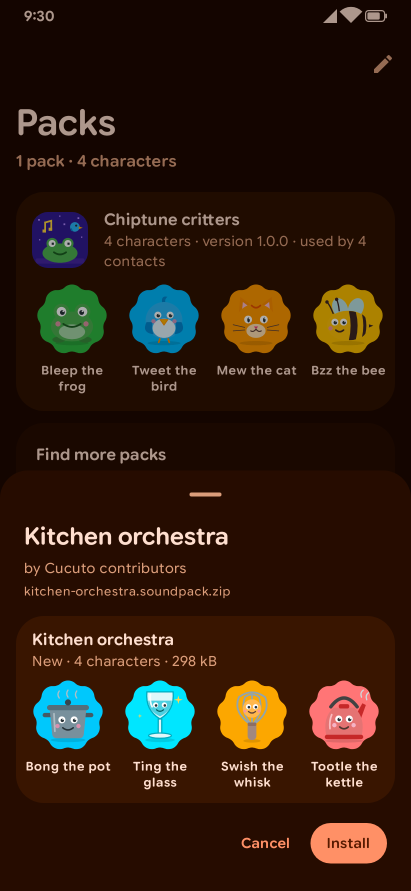
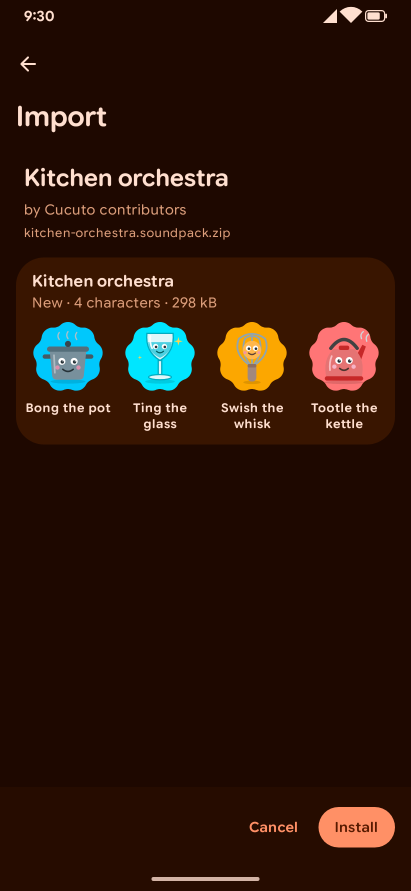
test(ui): goldens and accessibility checks for the new screens, ADR 0055

diff --git a/android/app/src/main/kotlin/app/mauri/cucuto/ui/discover/DiscoverModel.kt b/android/app/src/main/kotlin/app/mauri/cucuto/ui/discover/DiscoverModel.kt
@@ -22,7 +22,7 @@ import okhttp3.HttpUrl.Companion.toHttpUrlOrNull
 data class DiscoverUiState(
     /** One section per enabled repository; null while the saved repositories load. */
     val sections: List<RepositorySection>? = null,
-    /** Every saved repository, enabled or not, for the repositories sheet. */
+    /** Every saved repository, enabled or not, for the Repositories screen. */
     val repositories: List<SavedRepository> = emptyList(),
     val query: String = "",
     val tag: String? = null,
@@ -138,8 +138,8 @@ sealed interface DiscoverMessage {
 enum class AuthKind { NONE, BASIC, BEARER }
 
 /**
- * The "add a repository" sheet, or the sign-in sheet of a saved repository ([repositoryId] set, URL fixed). The URL is
- * parsed as the user types so the sheet can show the host and the unknown-source warning before anything is fetched.
+ * The "add a repository" form, or the sign-in form of a saved repository ([repositoryId] set, URL fixed). The URL is
+ * parsed as the user types so the form can show the host and the unknown-source warning before anything is fetched.
  * Secrets live only here, in memory, and [toString] never shows them.
  */
 data class RepositoryForm(
@@ -158,10 +158,10 @@ data class RepositoryForm(
 
     val link: RepositoryLink? get() = (parsed as? LinkResult.Ok)?.link
 
-    /** The host the link points at, shown in the sheet. */
+    /** The host the link points at, shown in the form. */
     val host: String? get() = link?.url?.host
 
-    /** False for anything but the project website: the sheet shows the unknown-source warning. */
+    /** False for anything but the project website: the form shows the unknown-source warning. */
     val trusted: Boolean get() = host == DEFAULT_HOST
 
     /** The credentials as typed. Throws [IllegalArgumentException] when they are not valid header values. */

diff --git a/android/app/src/main/kotlin/app/mauri/cucuto/home/HomeModel.kt b/android/app/src/main/kotlin/app/mauri/cucuto/home/HomeModel.kt
@@ -39,7 +39,7 @@ data class PackFilterOption(
  * @property recent The "recent senders" strip: chats without a voice that messaged in the last
  *   [HomeRules.RECENT_WINDOW_MS], newest first. Hidden while searching or filtering.
  * @property chats The chat list after search and pack filter.
- * @property unassigned Every chat without a voice, newest first (the "Assign a voice" sheet).
+ * @property unassigned Every chat without a voice, newest first (the "Assign a voice" screen).
  * @property voiced Every chat with a voice (installed or not), newest first, ignoring search and filter.
  * @property totalChats Chats before search and filter (tells "no chats yet" from "no matches").
  */

diff --git a/android/app/src/main/kotlin/app/mauri/cucuto/ui/discover/PackDownloader.kt b/android/app/src/main/kotlin/app/mauri/cucuto/ui/discover/PackDownloader.kt
@@ -21,7 +21,7 @@ import java.util.concurrent.atomic.AtomicBoolean
 /**
  * Downloads a repository entry or a direct pack link (size and SHA-256 checked by [RepositoryClient]) to a temporary
  * file in [workDir], then hands it to the same import pipeline as local files ([PackCatalog.prepare], ADR 0011): the
- * user reviews and confirms in the import sheet as usual. The temporary file is deleted once the importer has its own
+ * user reviews and confirms in the import review as usual. The temporary file is deleted once the importer has its own
  * copy, or when the download fails or is cancelled.
  */
 class PackDownloader(

diff --git a/android/app/src/main/kotlin/app/mauri/cucuto/ui/discover/DemoPacks.kt b/android/app/src/main/kotlin/app/mauri/cucuto/ui/discover/DemoPacks.kt
@@ -38,7 +38,7 @@ sealed interface DemoPacksUi {
     /** Fetching the default repository's index to find the bundle. */
     data object Finding : DemoPacksUi
 
-    /** The import sheet has the bundle (download, review, install); a problem there offers to pick the file. */
+    /** The import review has the bundle (download, review, install); a problem there offers to pick the file. */
     data object Importing : DemoPacksUi
 
     /** The bundle could not be found: say why, offer to try again or to pick the file from Downloads. */

diff --git a/android/app/src/main/kotlin/app/mauri/cucuto/ui/discover/IncomingRepoLinks.kt b/android/app/src/main/kotlin/app/mauri/cucuto/ui/discover/IncomingRepoLinks.kt
@@ -11,7 +11,7 @@ import javax.inject.Singleton
 
 /**
  * "Add to app" links (`cucuto://repo/add?url=…`) from websites and QR codes. The activity [offer]s each link
- * ([repoLinkOf]); Discover [take]s it and opens the add sheet with the host and a warning. Nothing is fetched until
+ * ([repoLinkOf]); Discover [take]s it and opens the add form with the host and a warning. Nothing is fetched until
  * the user confirms: a link only fills in the form.
  */
 @Singleton

diff --git a/android/app/src/main/kotlin/app/mauri/cucuto/ui/discover/DiscoverViewModel.kt b/android/app/src/main/kotlin/app/mauri/cucuto/ui/discover/DiscoverViewModel.kt
@@ -416,7 +416,7 @@ class DiscoverViewModel
             selected: Boolean,
         ) = imports.setSelected(packId, selected)
 
-        /** Installs what the review shows (the sheet's install button). */
+        /** Installs what the review shows (the review's install button). */
         fun confirmInstall() =
             imports.install {
                 message.value = DiscoverMessage.Installed(it)

diff --git a/android/app/src/main/kotlin/app/mauri/cucuto/ui/creator/CreatorViewModel.kt b/android/app/src/main/kotlin/app/mauri/cucuto/ui/creator/CreatorViewModel.kt
@@ -554,7 +554,7 @@ class CreatorViewModel
 
         // region Finish
 
-        /** Builds the pack and checks it with every rule: the "Check and finish" sheet. */
+        /** Builds the pack and checks it with every rule: the "Check and finish" screen. */
         fun check() {
             val start = state.value.draft ?: return
             setState { copy(finish = FinishUi.Checking) }

diff --git a/android/app/src/main/kotlin/app/mauri/cucuto/navigation/CucutoApp.kt b/android/app/src/main/kotlin/app/mauri/cucuto/navigation/CucutoApp.kt
@@ -77,7 +77,7 @@ fun CucutoApp(
 
 /**
  * The shell with the real screens. A pack handed over by another app opens the Packs tab, which imports it; an "Add
- * to app" repository link opens the Discover tab, which shows the add sheet (#36).
+ * to app" repository link opens the Discover tab, which opens the add form (#36).
  */
 @Composable
 fun CucutoShell(

diff --git a/android/app/src/main/kotlin/app/mauri/cucuto/ui/creator/CreatorState.kt b/android/app/src/main/kotlin/app/mauri/cucuto/ui/creator/CreatorState.kt
@@ -130,7 +130,7 @@ data class Busy(
     enum class Kind { OPENING_PICTURE, SAVING_PICTURE, OPENING_AUDIO, COPYING_PACK }
 }
 
-/** The "Check and finish" sheet. */
+/** The "Check and finish" screen. */
 sealed interface FinishUi {
     data object Checking : FinishUi
 

diff --git a/docs/decisions/0055-screens-over-dialogs.md b/docs/decisions/0055-screens-over-dialogs.md
@@ -1,0 +1,74 @@
+# 0055. Screens over dialogs: flows and long content are destinations
+
+- Status: accepted (defaults the owner may override are in the `question` issue linked from #218)
+- Date: 2026-10-24
+- Issue: #218 (the owner's answer on #166, item 9)
+
+## Context
+
+The owner on #166: "i preffer a screen unless the content is very minimal and temporary." The brief now says so
+("Screens over dialogs"). Nine places still showed a flow or a body of content in a dialog or bottom sheet: the
+restore flow (a full-screen dialog over Settings), the manual backup options, the licenses, the import review, the
+pack detail, the repository form, the saved repositories, the creator's "Check and finish" and Home's "Assign a voice"
+list. Confirmations, short choices and blocking progress cards stay dialogs.
+
+The shell (ADR 0027) gives each tab a Navigation 3 back stack, and every entry its own `ViewModelStore`. Most of these
+flows keep their state in the view model of the screen below them (an import lives in `PacksViewModel` or
+`DiscoverViewModel`, the repository form in `DiscoverViewModel`, the check in `CreatorViewModel`), and those view
+models carry the flows' tests.
+
+Read: Navigation 3 ([saving and managing state](https://developer.android.com/guide/navigation/navigation-3/save-state),
+view models scoped to entries, `NavEntryDecorator`), the lifecycle `ViewModelStoreProvider` and
+`rememberViewModelStoreOwner` APIs (lifecycle 2.11), Material 3 top app bars, and `NavigationBackHandler`
+(`androidx.navigationevent`).
+
+## Decision
+
+**Each conversion is a destination** (`CucutoDestination`): `Restore(backupUri)`, `BackupExport`, `Licenses`,
+`ImportReview(from)`, `PackDetail(packId)`, `RepositoryForm`, `Repositories`, `CreatorFinish(sourcePackId)` and
+`AssignVoice`, pushed on the tab that opens it. They use `PushedScreen`: the shared `CucutoTopBar` (medium flexible
+bar with a back arrow) in a `Scaffold`, and `BottomActionBar` for a step's buttons. They slide like every pushed
+screen, predictive back included, and the navigation bar stays (only the setup guide is immersive).
+
+**Child screens share their parent's view models.** The shell replaces `rememberViewModelStoreNavEntryDecorator` with
+its own decorator (`EntryViewModels.kt`): one store per entry, cleared when the entry is popped, as before. An entry
+declared with `childOf(parent)` metadata also gets the parent entry's store as `LocalParentViewModelStoreOwner`
+(looked up by the parent's tab-prefixed content key, so it exists even when the parent was never composed in this
+process), and reads it with `parentViewModel()`. The import review, pack detail, repository screens, backup options,
+"Check and finish" and "Assign a voice" are children; the flows keep one state and their existing tests.
+`OnEntryPopped` runs a callback from a tiny view model in the child's own store when that store is cleared, so a
+child closes its part of the parent's state (an open import, the form, the check) only when it really leaves its
+stack, not on a rotation or a tab switch.
+
+**Opening a child is an event kept as state.** `ImportController.showReview` and `DiscoverViewModel.showForm` turn true
+when an import or the form starts (a tap, "Open with", Home's demo packs, an "Add to app" link) and false once the
+screen is open. The parent pushes the child when it sees true, so a child left with back is never pushed again while
+its state is still being closed. A child leaves by itself when its state is over (installed, saved) or missing.
+
+**State across process death.** The back stacks survive (ADR 0027). Restore keeps the backup's URI in its key and
+opens it again (the picker's read grant lasts until reboot); an encrypted backup asks for its password again, and the
+packs and contacts already restored stay restored, so going through it again is harmless. Pack detail, saved
+repositories, licenses, the backup options' switches and the assign list come back as they were. Passwords never go
+into saved state. An import in progress (its temporary files and the file's grant), the repository form and the
+check's result live only in memory, as they did in the sheets: after process death those screens close and the
+parent shows, with nothing lost that was saved (the creator's draft is saved after every change).
+
+**Details.** Restore's "Choose another file" replaces the Restore screen with one for the new file
+(`AppNavigator.replace`), and its summary's links to the setup guide and Diagnostics replace it too, so back returns
+where the restore started. Settings and Home's first-run card start a restore with `rememberBackupPicker`; keeping
+automatic backups in the restored file moved into `RestoreViewModel`. The backup options close once a place is picked
+and Settings shows the export's progress and result; cancelling the picker stays on the screen. Back is blocked while
+packs install (import review, "Check and finish"), as the sheets were. Picking a chat in "Assign a voice" hands over
+to the character picker, so back from there returns to Home. Removing a pack from its detail asks on Packs, as before.
+
+## Consequences
+
+- Nine dialogs and sheets fewer; the flows can be linked to, show in the back stack and get predictive back.
+- New code in `navigation/`: `EntryViewModels.kt` and `AppNavigator.replace`; `CucutoTopBar` and `BackButton` gain
+  `backEnabled`. No new dependency.
+- The CompositionLocal allowlist lint is suppressed for `LocalParentViewModelStoreOwner` (file-level), which sits next
+  to `LocalViewModelStoreOwner` for the same reason.
+- Tests: `EntryViewModelsTest` (a child shares its parent's view model, hears its pop, not a tab switch),
+  `AppNavigatorTest` (replace, the new keys serialize), view model tests for the open-screen events and for Restore
+  opening its file once per view model; every new screen joins the accessibility checks and the large-font goldens.
+  The import review golden is now the screen.

diff --git a/docs/decisions/0028-settings-and-backup-ui.md b/docs/decisions/0028-settings-and-backup-ui.md
@@ -34,7 +34,7 @@ row shows it as on and disabled.
 library, the credential store and SAF). View models depend on the interface and see documents as URI strings, so
 they are unit-tested with a fake.
 
-- **Manual export:** a dialog (full backup, password with confirmation and an 8-character minimum, repository
+- **Manual export:** a screen since ADR 0055, a dialog before (full backup, password with confirmation and an 8-character minimum, repository
   passwords only with a password), then `ACTION_CREATE_DOCUMENT` with `cucuto-backup-YYYY-MM-DD.zip`. A failed
   export deletes the half-written document. The password lives in memory only until the export, then is wiped; it
   never goes into saved state.
@@ -48,8 +48,8 @@ they are unit-tested with a fake.
   Automatic backups are never encrypted and never include credentials (nobody is there to type a password) and,
   by default, **include the sound packs**, so a restore works even if a repository is gone (the owner's reason for
   wanting Drive backups on #108). No WorkManager: every change that matters happens while the app runs.
-- **Restore (`RestoreViewModel` + `RestoreFlow`):** a Material 3 full-screen dialog over Settings, so the flow needs
-  no extra route. Steps: open (passphrase prompt for encrypted backups; packs and broken files are plain problems),
+- **Restore (`RestoreViewModel` + `RestoreScreen`):** a screen on the tab it starts from (Settings or Home), since
+  ADR 0055; it was a Material 3 full-screen dialog over Settings. Steps: open (passphrase prompt for encrypted backups; packs and broken files are plain problems),
   the pack checklist from `PackRestorePlanner` (packs in the backup, repository and link downloads start by
   themselves, one at a time; local-only packs show "Choose file"; failures can be retried; the plan is recomputed
   after each install so a bundle can satisfy several rows), contacts and voices (`BackupRestorer`), conflicts
@@ -63,7 +63,7 @@ they are unit-tested with a fake.
   hash from the reference instead of the re-zipped one, so later backups still point at what repositories serve.
   They use the `INTERNET` permission Discover added.
 
-**About** shows the version, website, source and a licenses dialog: GPL-3.0-or-later for Cucuto, OFL 1.1 for Google
+**About** shows the version, website, source and a licenses screen (a dialog before ADR 0055): GPL-3.0-or-later for Cucuto, OFL 1.1 for Google
 Sans Flex, CC0 1.0 for the demo packs, and the libraries' licenses.
 
 ## Consequences

diff --git a/docs/decisions/0027-app-shell-and-first-run-journey.md b/docs/decisions/0027-app-shell-and-first-run-journey.md
@@ -45,7 +45,8 @@ Discover: "explore") are drawn from the Material Icons path data instead of addi
 `SettingsScreen(onNavigate)`; its status row opens Setup and its debug-only row opens Developer. The contact detail
 (#26) is pushed on Home for chats that have a voice. Discover (#36) is the tab root as
 `DiscoverScreen()` (no back arrow); an "Add to app" link opens the Discover tab, as an incoming pack opens Packs.
-The haptic editor (#32) is pushed on the current tab. Status becomes **Settings → Setup** (`SetupScreen`).
+The haptic editor (#32) is pushed on the current tab. Screens that work on their parent's view model (the import review over Packs, "Check and finish" over the
+creator) declare it with `childOf` and share its store (ADR 0055). Status becomes **Settings → Setup** (`SetupScreen`).
 Diagnostics stays reachable in release builds (Settings and the setup checks link to it; the brief wants the
 decision log for debugging). **Settings → Developer** (design gallery, Diagnostics with the debug test voice, and
 "Start over as a new user") and the gallery are registered only when `BuildConfig.DEBUG`. The placeholder screen,
